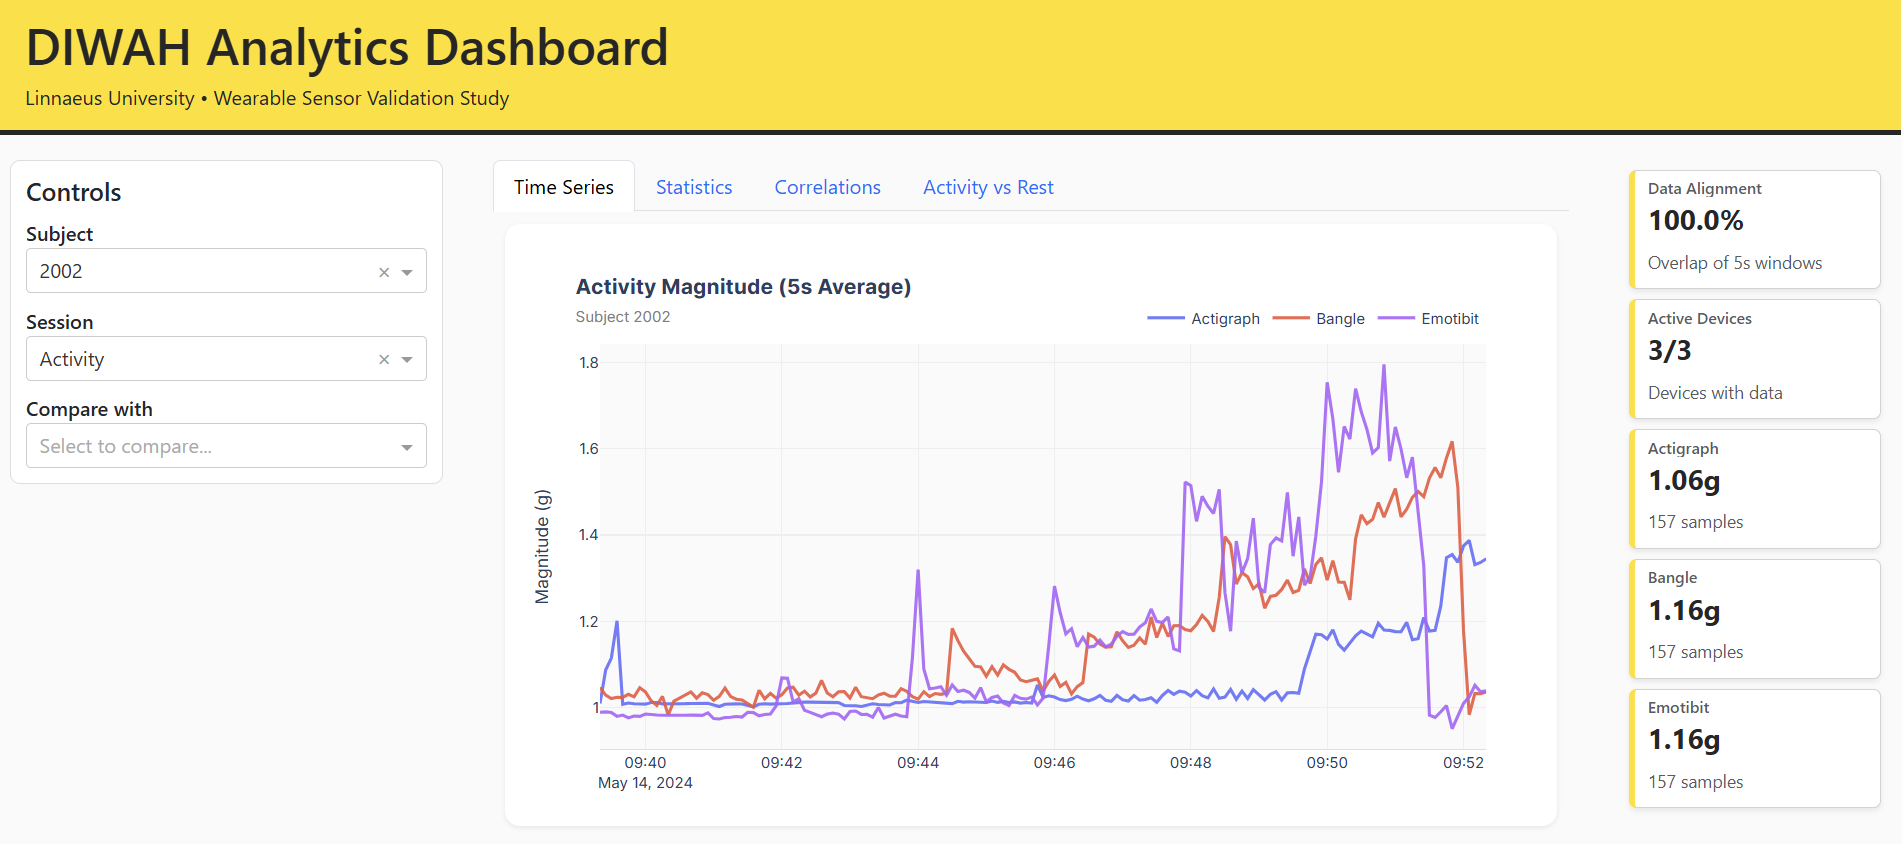
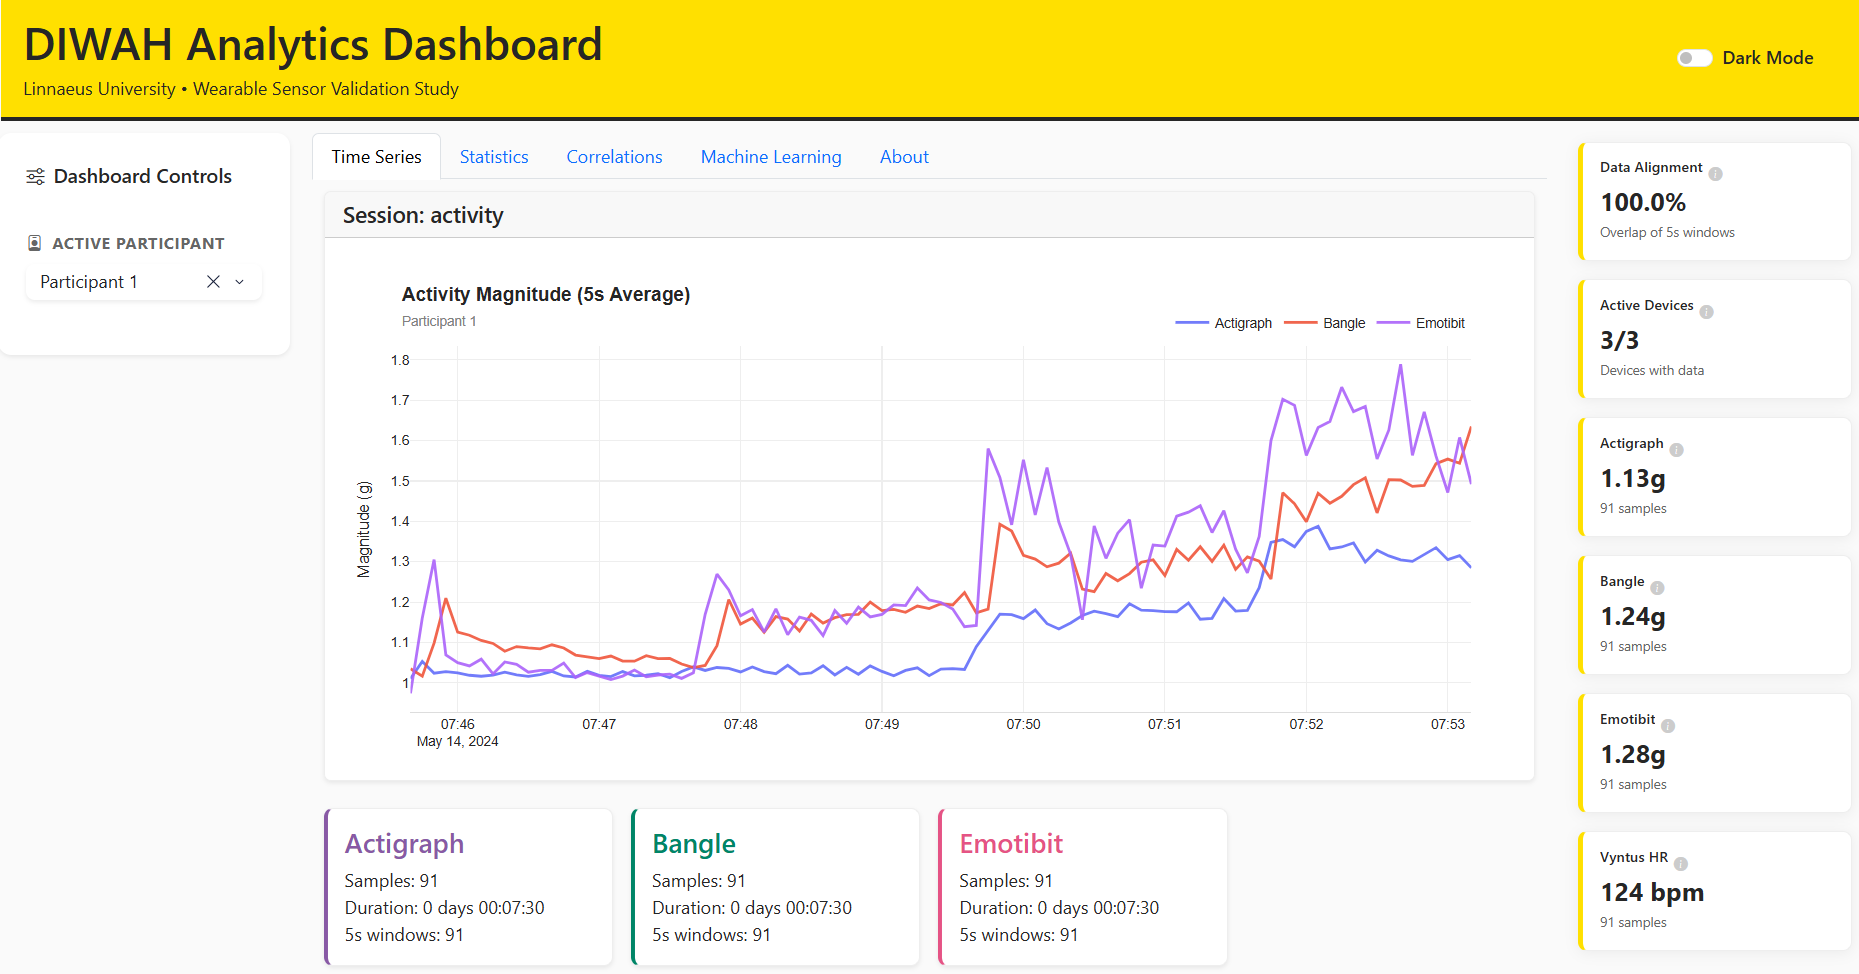
updated main picture in readme

diff --git a/src/frontend/layouts.py b/src/frontend/layouts.py
@@ -14,7 +14,7 @@ from ..constants import COLORS, DEVICE_COLORS, PARTICIPANT_MAPPING
 from ..backend.stats_utils import format_p_value
 
 
-def create_kpi_card(title: str, value: str, subtext: str, color: str = "primary", tooltip_text: Optional[str] = None) -> dbc.Card:
+def create_kpi_card(title: str, value: str, subtext: str, color: str = "buttercup", tooltip_text: Optional[str] = None) -> dbc.Card:
     """
     Create a KPI card component.
     
